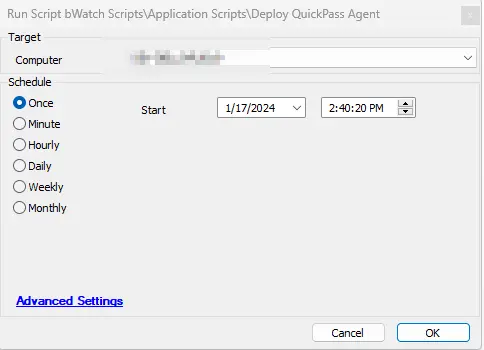
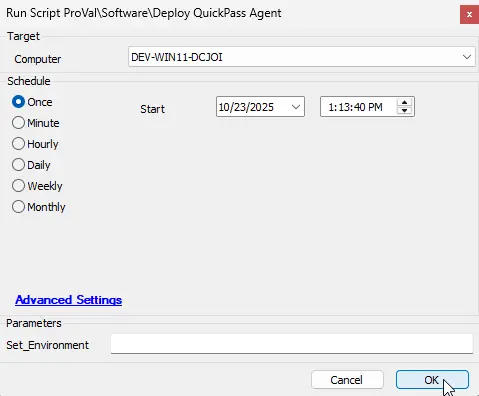
Deploy QuickPass Agent
- New Location Level EDF

diff --git a/docs/cwa/scripts/deploy-quickpass-agent.md b/docs/cwa/scripts/deploy-quickpass-agent.md
@@ -16,6 +16,10 @@ This script installs the QuickPass Agent on Windows machines where it is not alr
 
 ## Sample Run
 
+**First Run:** Execute the script with the user parameter `Set_Environment` as `1` to import the System Property `QuickpassInstallToken` needed for the script.  
+![Sample Run](../../../static/img/docs/ab838395-dc94-4ceb-986e-99d00b005198/image_6.webp)
+
+**Regular Run:**  
 ![Sample Run](../../../static/img/docs/ab838395-dc94-4ceb-986e-99d00b005198/image_1.webp)
 
 ## Global Parameters
@@ -39,16 +43,20 @@ This script installs the QuickPass Agent on Windows machines where it is not alr
 
 ## Extra Data Fields
 
-| EDF Name                              | Level    | Type      | Description                                                                                                    |
-|---------------------------------------|----------|-----------|----------------------------------------------------------------------------------------------------------------|
-| QuickPass                             | Client   | CheckBox  | Check it if you would like to enable the client for QuickPass Deployment                                      |
-| QuickPass Agent ID                   | Client   | TextField | Populate it with the specified CustomerID at the client level to initiate the installation on targeted client machines |
-| Exclude from QuickPass Deployment     | Location | CheckBox  | Check it if you would like to exclude a location from QuickPass Deployment                                     |
-| Exclude from QuickPass Deployment     | Computer | CheckBox  | Check it if you would like to exclude a computer from QuickPass Deployment                                     |
+| EDF Name                              | Level    | Type      | Section | Description                                                                                                    |
+|---------------------------------------|----------|-----------|----------|------------------------------------------------------------------------------------------------------|
+| QuickPass                             | Client   | CheckBox  | QuickPass Deployment | Check it if you would like to enable the client for QuickPass Deployment                                      |
+| QuickPass Agent ID                   | Client   | TextField | QuickPass Deployment | Populate it with the specified CustomerID at the client level to initiate the installation on targeted client machines |
+| QuickPass Agent ID                   | Location   | TextField | QuickPass Deployment | Populate it with the specified CustomerID at the location level to override the value stored in client-level EDF `QuickPass Agent ID` |
+| Exclude from QuickPass Deployment     | Location | CheckBox  | Exclusions | Check it if you would like to exclude a location from QuickPass Deployment                                     |
+| Exclude from QuickPass Deployment     | Computer | CheckBox  | Exclusions | Check it if you would like to exclude a computer from QuickPass Deployment                                     |
 
 - The `QuickPass` EDF must be selected, and the `QuickPass Agent ID` EDF should be populated with the specified CustomerID at the client level to initiate the installation on targeted client machines.  
 ![QuickPass Agent ID](../../../static/img/docs/ab838395-dc94-4ceb-986e-99d00b005198/image_2.webp)  
 <em>For more information on how to fetch the QuickPass Agent ID, refer to the document [Export Customers List, Status and Agent IDs – CyberQP (getquickpass.com)](https://support.getquickpass.com/hc/en-us/articles/360061942274-Export-Customers-List-Status-and-Agent-ID-s).</em>
+
+- The `QuickPass Agent ID` EDF can be populated with the specified CustomerID at the location level to override the value set in the client-level EDF.  
+![QuickPass Agent ID](../../../static/img/docs/ab838395-dc94-4ceb-986e-99d00b005198/image_7.webp)  
 
 - The System Property `QuickpassInstallToken` must be filled with the installation token to initiate the QuickPass Agent installation.  
 ![QuickpassInstallToken](../../../static/img/docs/ab838395-dc94-4ceb-986e-99d00b005198/image_3.webp)  
@@ -69,7 +77,10 @@ This script installs the QuickPass Agent on Windows machines where it is not alr
 
 **Subject:** `QuickPass Agent Installation Failed on %ComputerName%(%ComputerID%)`
 
-**Ticket Body:** `Failed to install QuickPass Agent on %computername% at %clientname%. Here are the results returned from the installer: %shellresult%`
+**Ticket Body:** 
+
+```PlainText
+Failed to install QuickPass Agent on %computername% at %clientname%. Here are the results returned from the installer: %shellresult%
 
 The PC information is outlined below:  
 PC Name: %computername%  
@@ -77,10 +88,12 @@ Last Login: %lastuser%
 PC Model: @biosname@  
 OS: %os%  
 S/N OF PC: @biosver@
+```
 
-When the script fails to download the installer:
+**When the script fails to download the installer:**
 
-`QuickPass Agent failed to download on %computername% at %clientname%. Please ensure that the computer can reach the download URL [https://storage.googleapis.com/qp-installer/production/Quickpass-Agent-Setup.exe](https://storage.googleapis.com/qp-installer/production/Quickpass-Agent-Setup.exe)`
+```PlainText
+QuickPass Agent failed to download on %computername% at %clientname%. Please ensure that the computer can reach the download URL [https://storage.googleapis.com/qp-installer/production/Quickpass-Agent-Setup.exe](https://storage.googleapis.com/qp-installer/production/Quickpass-Agent-Setup.exe)
 
 The PC information is outlined below:  
 PC Name: %computername%  
@@ -88,3 +101,4 @@ Last Login: %lastuser%
 PC Model: @biosname@  
 OS: %os%  
 S/N OF PC: @biosver@
+```
